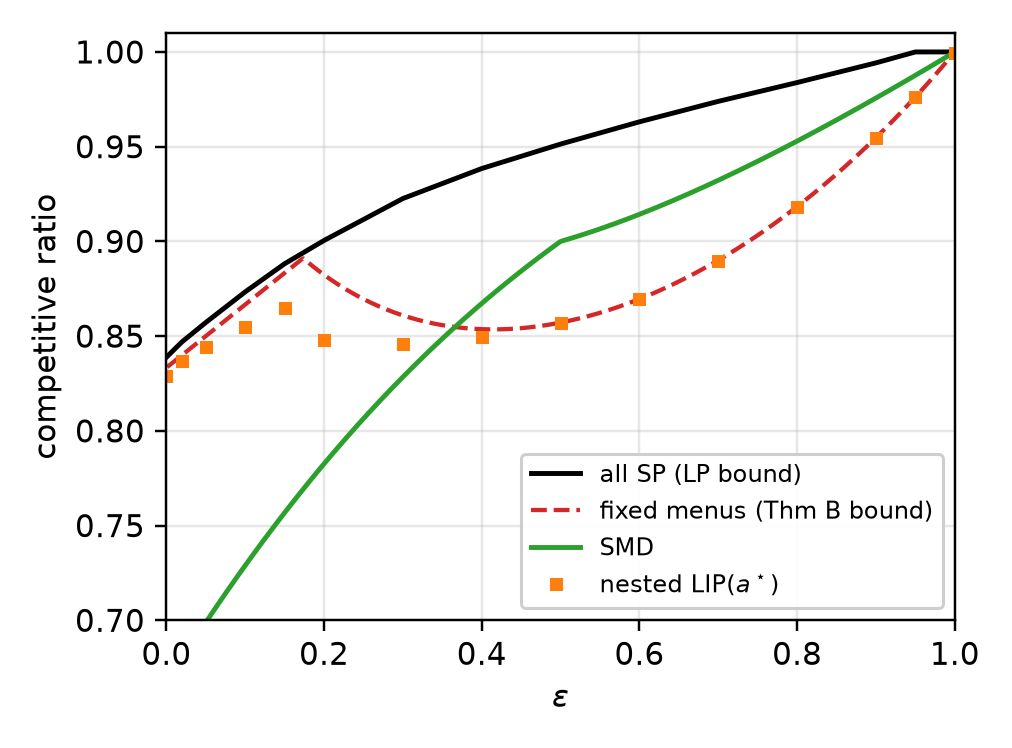
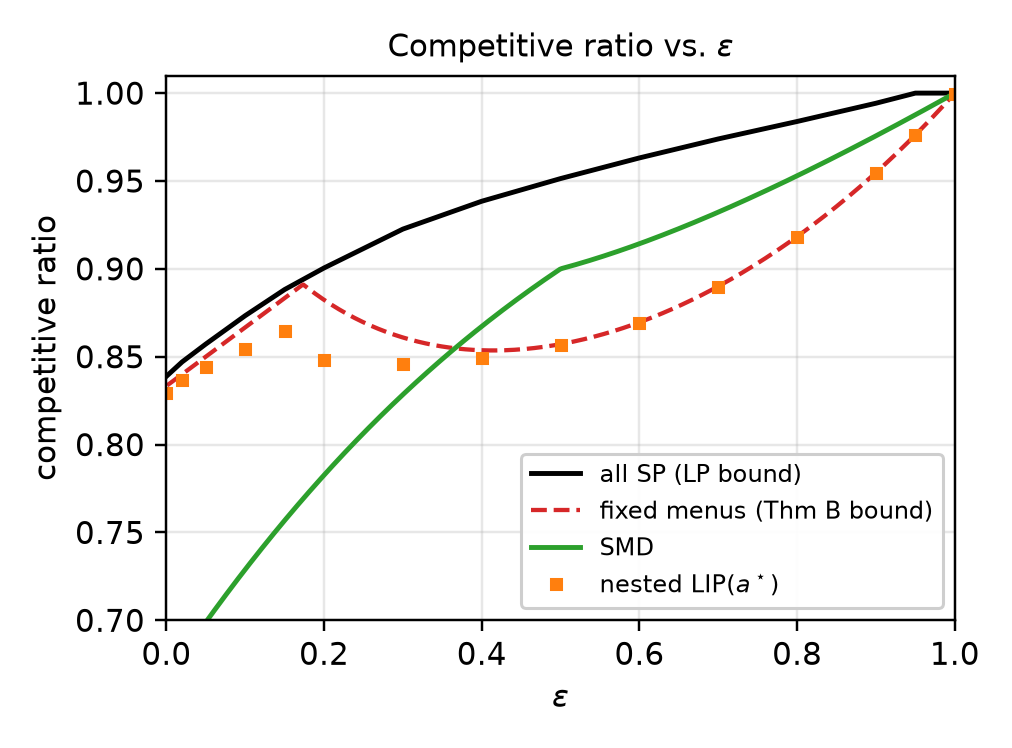
Report figures: short titles on the two wrapped figures (alpha(a), SMD vs eps)

diff --git a/experiments/nb_01_replication.py b/experiments/nb_01_replication.py
@@ -134,6 +134,7 @@ ax.plot(scan.a, scan.theta_upper, "--", c="C0", lw=1.4, label=r"$\theta(a)$ (int
 ax.axvline(2.0, c="gray", lw=0.9, ls=":", label=r"$a=2$ (paper)")
 ax.axvline(opt["a_star"], c="C3", lw=0.9, label=rf"$a^\star={opt['a_star']:.2f}$")
 ax.set(xlabel=r"price slope $a$", ylabel="competitive ratio", xlim=(0.5, 6), ylim=(0.70, 0.95))
+ax.set_title(r"LIP($a$): competitive ratio vs. $a$", fontsize=10)
 ax.legend(fontsize=8, loc="upper right", framealpha=0.95)
 plt.tight_layout(); plt.savefig(FIG / "01_alpha_of_a.png", dpi=220); plt.show()
 scan[["a", "alpha_lower", "alpha_upper", "x_worst", "y_worst", "theta_upper"]].query("1.5 <= a <= 3").round(6)

diff --git a/experiments/report_figures.py b/experiments/report_figures.py
@@ -60,6 +60,7 @@ def smd_vs_bounds():
     ax.plot(e, split.ratio_closed_form(e), c="C2", lw=1.6, label="SMD")
     ax.plot(nes.eps, nes.lower, "s", c="C1", ms=3.5, label=r"nested LIP($a^\star$)")
     ax.set(xlabel=r"$\varepsilon$", ylabel="competitive ratio", xlim=(0, 1), ylim=(0.70, 1.01))
+    ax.set_title(r"Competitive ratio vs. $\varepsilon$", fontsize=10)
     ax.legend(fontsize=8, loc="lower right", framealpha=0.95)
     plt.tight_layout()
     name = "04_smd.png"
